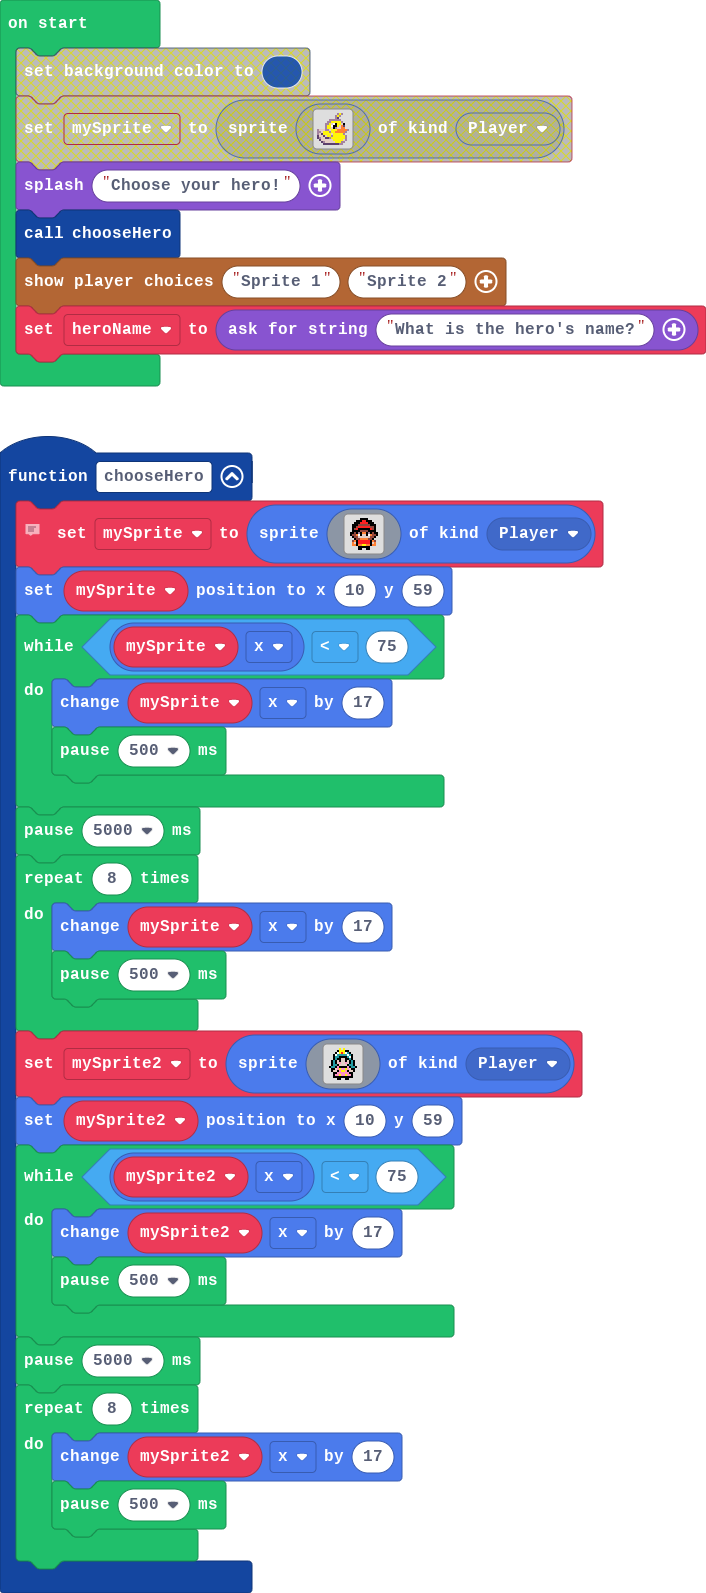
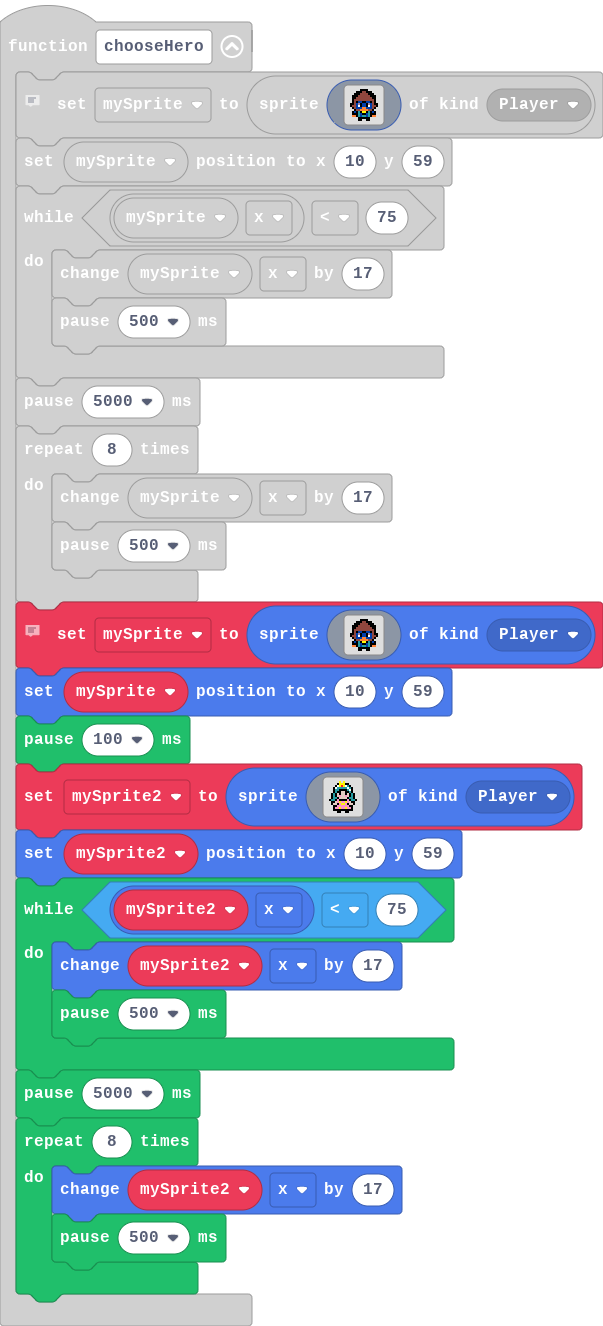
changed sprite

diff --git a/main.ts b/main.ts
@@ -2,19 +2,19 @@ function chooseHero () {
     // change sprite later to agree with Daisy 
     mySprite = sprites.create(img`
         . . . . . . f f f f . . . . . . 
-        . . . . f f f 2 2 f f f . . . . 
-        . . . f f f 2 2 2 2 f f f . . . 
+        . . . . f f f e e f f f . . . . 
+        . . . f f f e e e e f f f . . . 
         . . f f f e e e e e e f f f . . 
-        . . f f e 2 2 2 2 2 2 e e f . . 
-        . . f e 2 f f f f f f 2 e f . . 
-        . . f f f f e e e e f f f f . . 
-        . f f e f b f 4 4 f b f e f f . 
-        . f e e 4 1 f d d f 1 4 e e f . 
-        . . f e e d d d d d d e e f . . 
+        . . f f e e e e e e e e f f . . 
+        . . f e e e e e e e e e e f . . 
+        . . f e f 8 8 f f 8 8 f e f . . 
+        . f f e 8 b f 8 8 f b 8 e f f . 
+        . f e e 8 1 f 8 8 f 1 8 e e f . 
+        . . f e 8 8 8 4 4 8 8 8 e f . . 
         . . . f e e 4 4 4 4 e e f . . . 
-        . . e 4 f 2 2 2 2 2 2 f 4 e . . 
-        . . 4 d f 2 2 2 2 2 2 f d 4 . . 
-        . . 4 4 f 4 4 5 5 4 4 f 4 4 . . 
+        . . f 8 f 6 f 5 5 f 6 f 8 f . . 
+        . . f f f 6 8 f f 8 6 f f f . . 
+        . . 4 4 f 6 8 6 6 8 6 f 4 4 . . 
         . . . . . f f f f f f . . . . . 
         . . . . . f f . . f f . . . . . 
         `, SpriteKind.Player)
@@ -28,6 +28,27 @@ function chooseHero () {
         mySprite.x += 17
         pause(500)
     }
+    // change sprite later to agree with Daisy 
+    mySprite = sprites.create(img`
+        . . . . . . f f f f . . . . . . 
+        . . . . f f f e e f f f . . . . 
+        . . . f f f e e e e f f f . . . 
+        . . f f f e e e e e e f f f . . 
+        . . f f e e e e e e e e f f . . 
+        . . f e e e e e e e e e e f . . 
+        . . f e f 8 8 f f 8 8 f e f . . 
+        . f f e 8 b f 8 8 f b 8 e f f . 
+        . f e e 8 1 f 8 8 f 1 8 e e f . 
+        . . f e 8 8 8 4 4 8 8 8 e f . . 
+        . . . f e e 4 4 4 4 e e f . . . 
+        . . f 8 f 6 f 5 5 f 6 f 8 f . . 
+        . . f f f 6 8 f f 8 6 f f f . . 
+        . . 4 4 f 6 8 6 6 8 6 f 4 4 . . 
+        . . . . . f f f f f f . . . . . 
+        . . . . . f f . . f f . . . . . 
+        `, SpriteKind.Player)
+    mySprite.setPosition(10, 59)
+    pause(100)
     mySprite2 = sprites.create(img`
         . . . . . . 5 . 5 . . . . . . . 
         . . . . . f 5 5 5 f f . . . . . 
